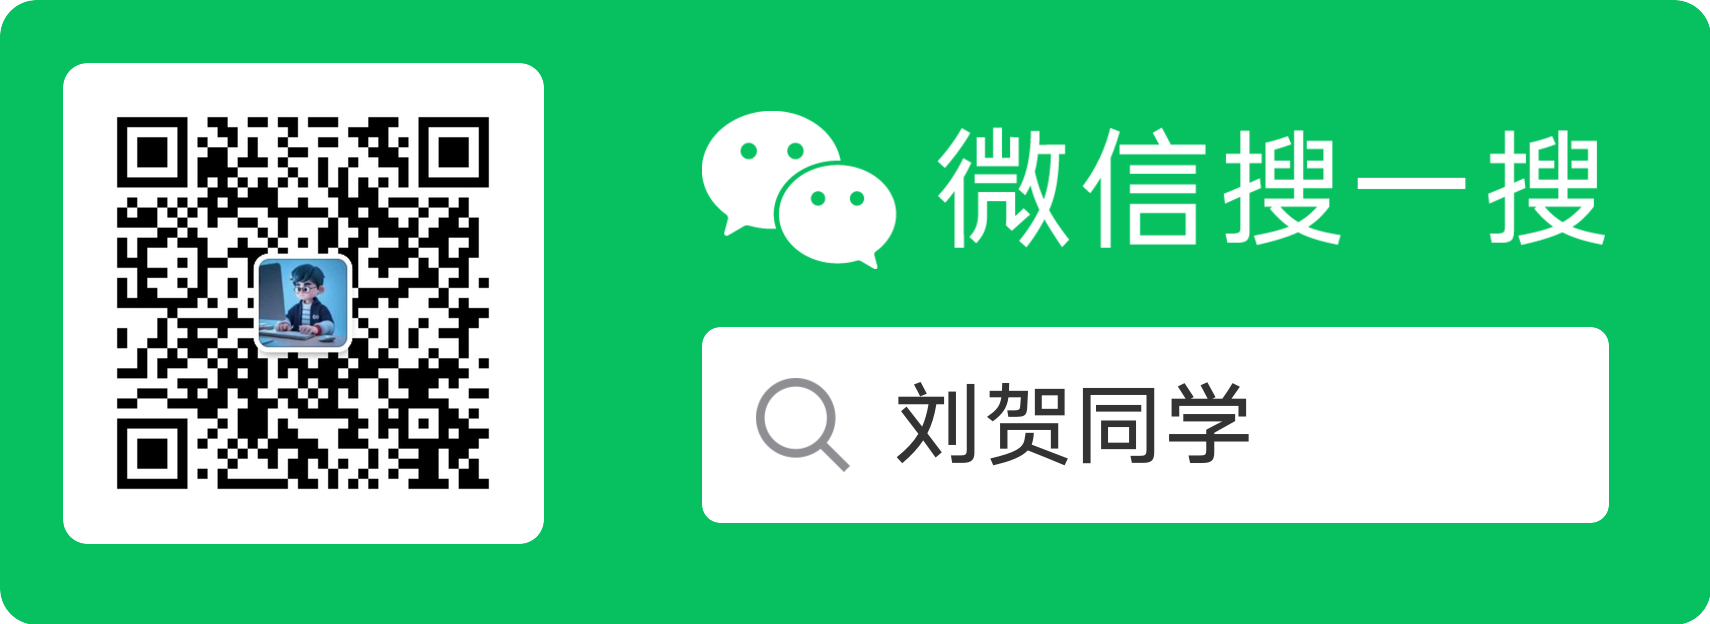
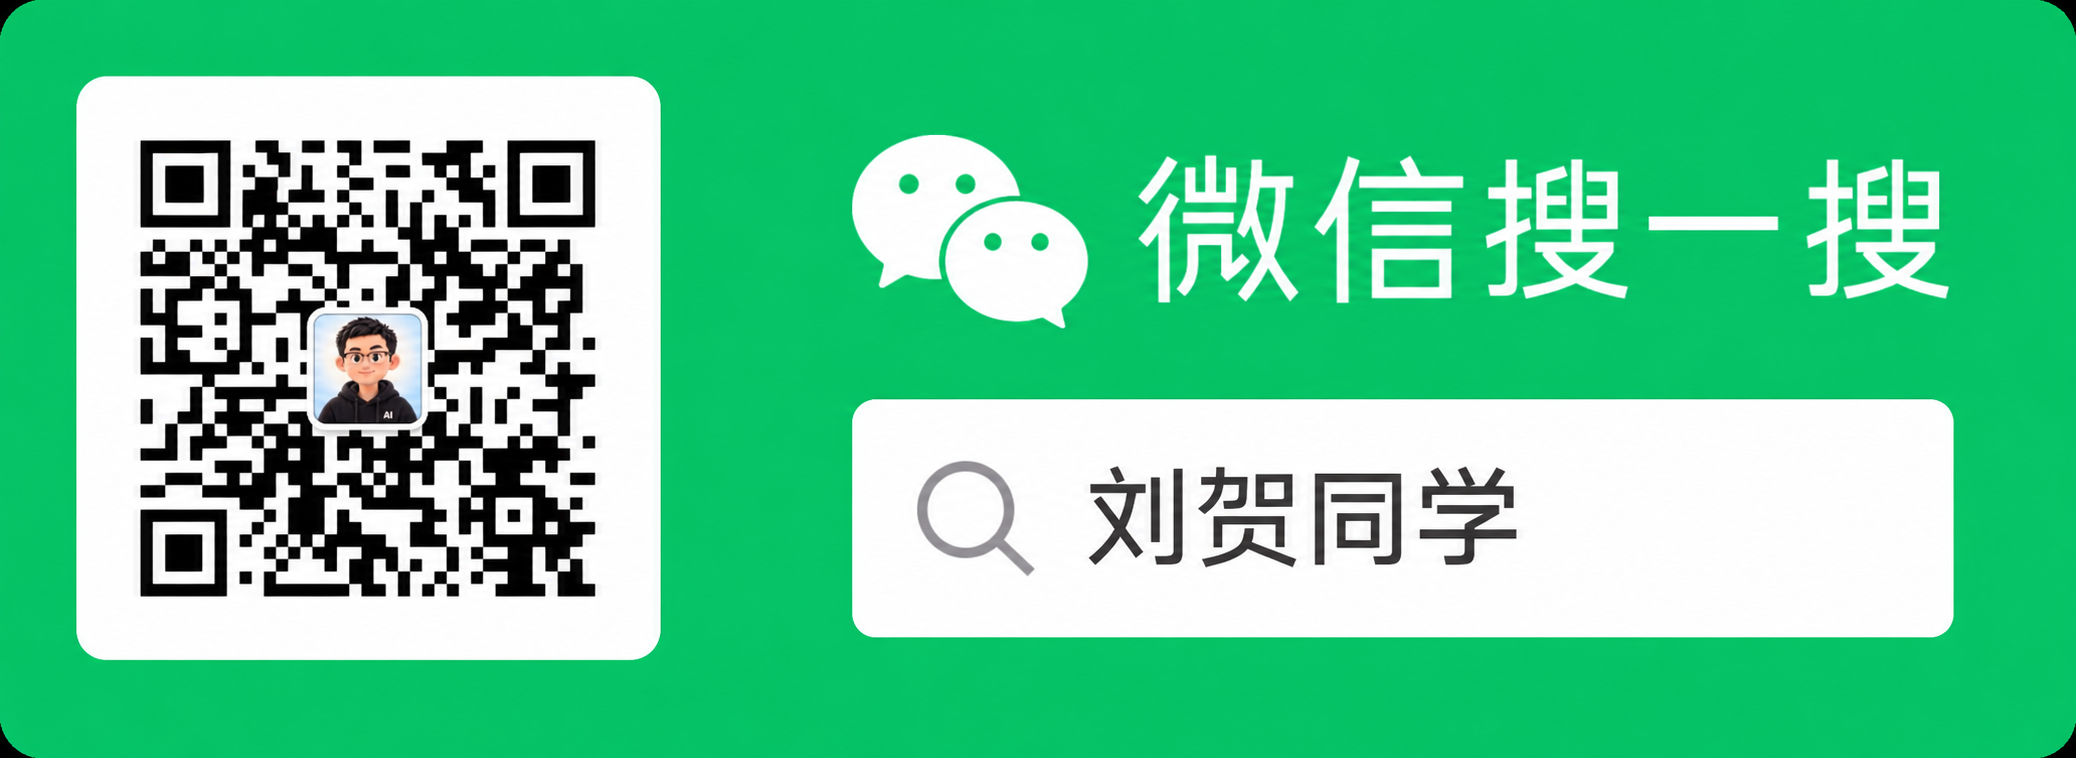
fix: update WeChat QR image

diff --git a/components/footer.tsx b/components/footer.tsx
@@ -142,14 +142,14 @@ export function Footer() {
               <p className="mt-2 text-sm leading-6 text-ink-soft">微信扫码关注；手机上可长按二维码保存。</p>
             </div>
             <Image
-              src="/contacts/wechat-qrcode.png"
+              src="/contacts/wechat-qrcode.png?v=c918cc10"
               alt="微信公众号刘贺同学二维码"
-              width={1710}
-              height={624}
+              width={2076}
+              height={758}
               className="mt-6 h-auto w-full rounded-sm border border-rule-soft"
             />
             <a
-              href="/contacts/wechat-qrcode.png"
+              href="/contacts/wechat-qrcode.png?v=c918cc10"
               target="_blank"
               rel="noopener noreferrer"
               className="mt-4 inline-flex text-sm font-medium text-accent underline decoration-accent/40 underline-offset-4 hover:decoration-accent"
